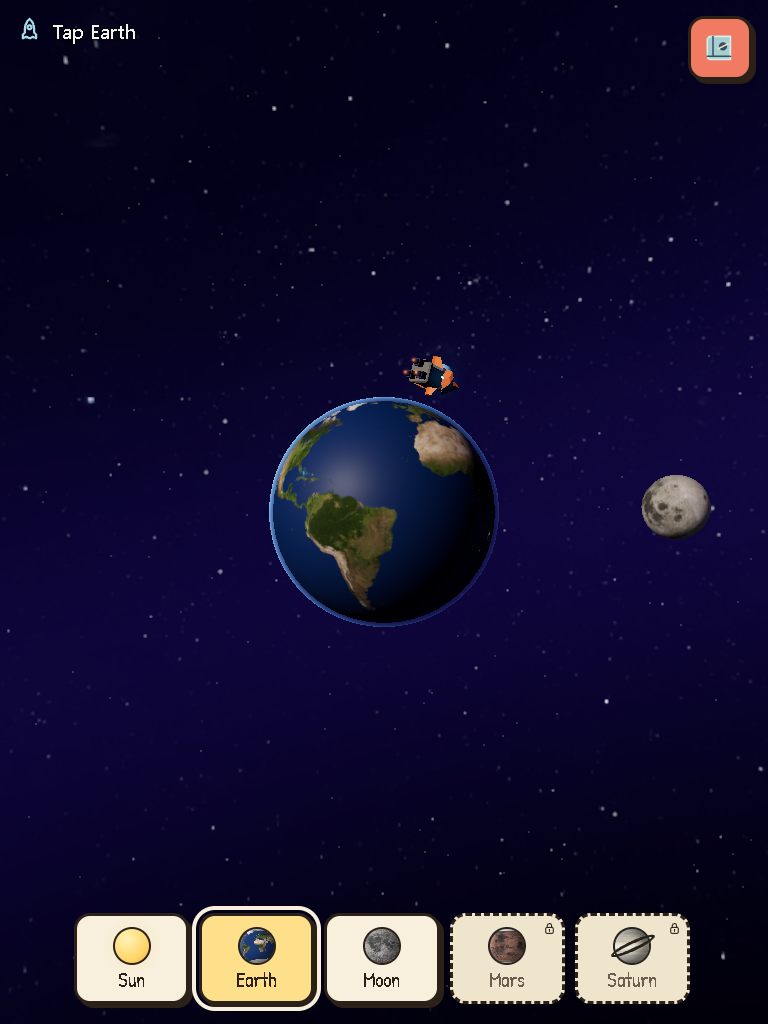
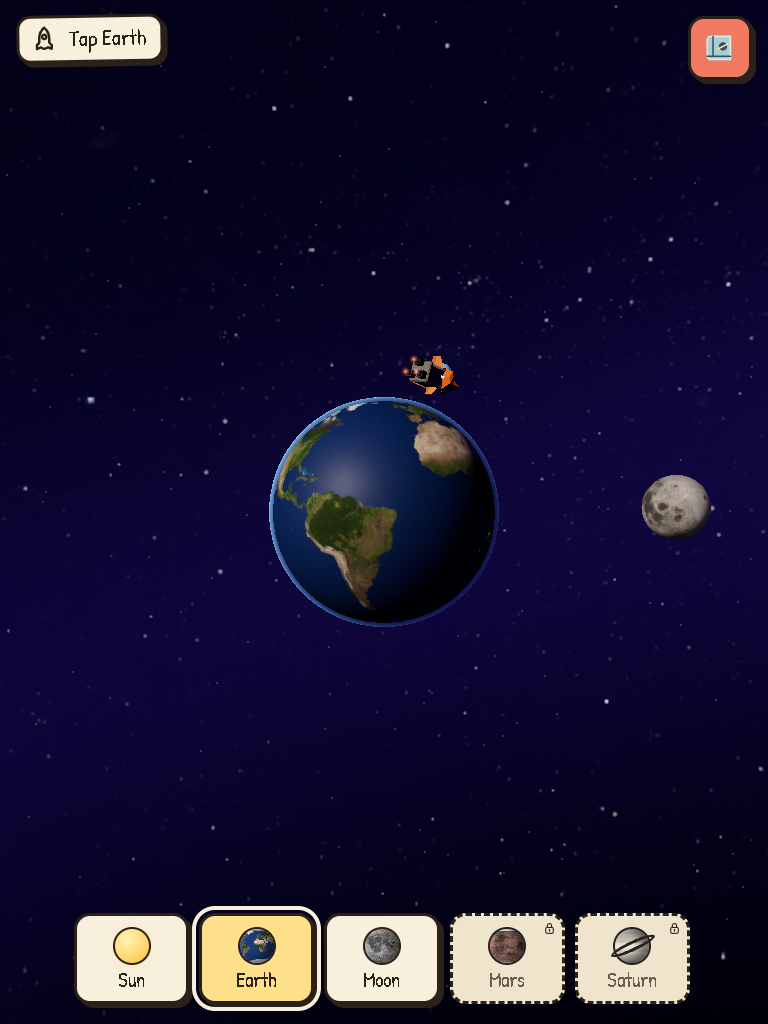
Crayons rollout review page; fit the finale on short landscape; checkpoint

Changed region(s): [[0.0, 0.0, 0.2188, 0.0625], [0.5312, 0.3438, 0.5938, 0.375]]

diff --git a/design/crayons-2/index.html b/design/crayons-2/index.html
@@ -1,0 +1,73 @@
+<!doctype html>
+<html lang="en">
+<head>
+<meta charset="utf-8">
+<meta name="viewport" content="width=device-width, initial-scale=1">
+<title>Crayons Rollout Review</title>
+<style>
+  :root { --paper:#f8f0dd; --ink:#2b2118; --sky:#5bb8e8; }
+  * { box-sizing:border-box; }
+  body { margin:0; background:var(--paper); color:var(--ink); font:16px/1.5 system-ui, sans-serif; }
+  header { padding:20px 16px 8px; max-width:1200px; margin:0 auto; }
+  h1 { margin:0 0 4px; font-size:26px; }
+  p { margin:0 0 12px; max-width:70ch; }
+  nav { display:flex; gap:8px; flex-wrap:wrap; margin:8px 0 0; }
+  nav button { font:inherit; padding:8px 16px; border:3px solid var(--ink); border-radius:12px; background:#fff; box-shadow:3px 3px 0 var(--ink); cursor:pointer; }
+  nav button[aria-pressed="true"] { background:var(--sky); }
+  main { max-width:1200px; margin:0 auto; padding:0 16px 40px; }
+  section { margin:28px 0; }
+  h2 { font-size:20px; margin:0 0 4px; }
+  .note { color:#5b4c3e; font-size:14px; }
+  .pair { display:grid; grid-template-columns:1fr 1fr; gap:12px; align-items:start; }
+  figure { margin:0; }
+  figcaption { font-weight:700; font-size:13px; text-transform:uppercase; letter-spacing:.05em; margin-bottom:4px; }
+  img { width:100%; height:auto; border:2px solid var(--ink); background:#000; display:block; }
+  body[data-device="phone"] .pair { max-width:640px; }
+  @media (max-width:520px) { .pair { grid-template-columns:1fr; } }
+</style>
+</head>
+<body data-device="tablet">
+<header>
+  <h1>Storybook crayons: remaining screens</h1>
+  <p>Before on the left, after on the right. The Moon visit, postcard and jump were already approved and are included for context.</p>
+  <nav aria-label="Device">
+    <button type="button" data-device="tablet" aria-pressed="true">Tablet</button>
+    <button type="button" data-device="phone" aria-pressed="false">Phone</button>
+    <button type="button" data-device="landscape" aria-pressed="false">Short landscape</button>
+  </nav>
+</header>
+<main id="screens"></main>
+<script>
+  const screens = [
+    ['0-home', 'Home map', 'Destination bar: paper cards, suggested world gold, locked worlds dashed. Map hint is a paper tag.'],
+    ['4-earth-welcome', 'Earth arrival', 'First Earth visit: Turn Earth or Find places.'],
+    ['5-words', 'Words card', 'Paper card, round X, sky Keep exploring.'],
+    ['6-day-night', 'Day and night', 'Paper legend; the current state is circled in grass, like Day & night. On a phone the heading now wraps so the legend no longer slides under it.'],
+    ['7-journal', 'Journal', 'Open world page in tomato (the Journal colour), found places as snapshots, empty ones dashed.'],
+    ['8-hunt-arrow', 'Hunt arrow', 'Sun-crayon round button; the counter is a paper pill with sun ticks.'],
+    ['9-finale', 'Finale', 'Paper page of snapshots, sun Hooray!'],
+    ['10-grownups', 'Grown-ups panel', 'Paper page, hand-lettered headings, sun Start playing.'],
+    ['1-visit', 'Moon visit (approved earlier)', ''],
+    ['2b-found', 'Moon after a find', 'The found-places counter, top right.'],
+  ];
+  const main = document.getElementById('screens');
+  function render(device) {
+    document.body.dataset.device = device;
+    main.replaceChildren(...screens.map(([file, title, note]) => {
+      const section = document.createElement('section');
+      section.innerHTML = `<h2>${title}</h2>${note ? `<p class="note">${note}</p>` : ''}
+        <div class="pair">
+          <figure><figcaption>Before</figcaption><img loading="lazy" alt="${title}, before" src="before/${device}-${file}.png"></figure>
+          <figure><figcaption>After</figcaption><img loading="lazy" alt="${title}, after" src="after/${device}-${file}.png"></figure>
+        </div>`;
+      return section;
+    }));
+  }
+  document.querySelectorAll('nav button').forEach((button) => button.addEventListener('click', () => {
+    document.querySelectorAll('nav button').forEach((b) => b.setAttribute('aria-pressed', String(b === button)));
+    render(button.dataset.device);
+  }));
+  render('tablet');
+</script>
+</body>
+</html>

diff --git a/src/ui/storybook.css b/src/ui/storybook.css
@@ -273,3 +273,10 @@
 /* After the finds on a world with a toy, the toy is the next step, not the journal. */
 .is-toy-next .visit-actions > .btn.jump-btn { outline:4px solid var(--paper); outline-offset:3px; }
 .is-complete.is-toy-next .visit-actions .journal-btn { outline:none; }
+
+/* Short landscape lays the finale out in a row; hand lettering is wider, so scale it down. */
+@media (max-height:480px) {
+  .finale__title { font-size:26px; }
+  .finale__line { font-size:17px; min-width:7em; }
+  .finale__close { flex:none; font-size:22px; padding:0 1.1rem; }
+}

diff --git a/docs/toys.md b/docs/toys.md
@@ -39,8 +39,11 @@ indicator stays on "Day". Effort: M (reuses the house art and cues).
 
 ### Moon: jump — *less gravity* (built)
 The same child jumps on Earth and on the Moon. On the Moon they go about six times higher
-and stay up about six times longer. The footprints stay. Next steps: one narrated line, and
-maybe a "bounce walk" (hold the button to keep hopping, the Apollo way).
+and stay up about six times longer. The footprints stay. Order on a visit: gold places
+first, then Jump is the next step (ring, caption and the `toy-moon` line, "Now you can jump
+on the Moon!"); the hunt does not start itself while the toy is open. Every toy follows this
+order. Next steps: a narrated line inside the toy, and maybe a "bounce walk" (hold the button
+to keep hopping, the Apollo way).
 **Second Moon toy, for older children: phases torch.** The Sun is a torch on one side; the
 child drags the Moon round Earth, and a window shows how it looks from Earth (full,
 half, crescent). Effort: M.

diff --git a/docs/current-implementation.md b/docs/current-implementation.md
@@ -1,5 +1,14 @@
 # Current implementation and handover
 
+## Crayons rollout, fast flights, Moon order — 21 October 2026
+
+Process docs rewritten for toys-first (AGENTS.md, DECISIONS.md). Playtest builds accept
+`?fast` (0.3 s flights); captures and non-flight checks use it. Storybook crayons now covers
+every child-facing screen; `e2e/style-capture.pw.ts` walks them all, with before/after in
+`design/crayons-2/index.html`. Moon: the hunt waits while Jump is open, and Jump is the next
+step after three finds (new Kokoro cue `toy-moon`, `e2e/moon-toy-order.pw.ts`). Owner review
+of the rollout, tablet listening and child observation are pending. Next: Earth bedtime spin.
+
 ## Earth feedback and rule cleanup — 20 October 2026
 
 Built on main `36a99d7`, on `codex/earth-day-feedback`. The house is larger, with clearer
